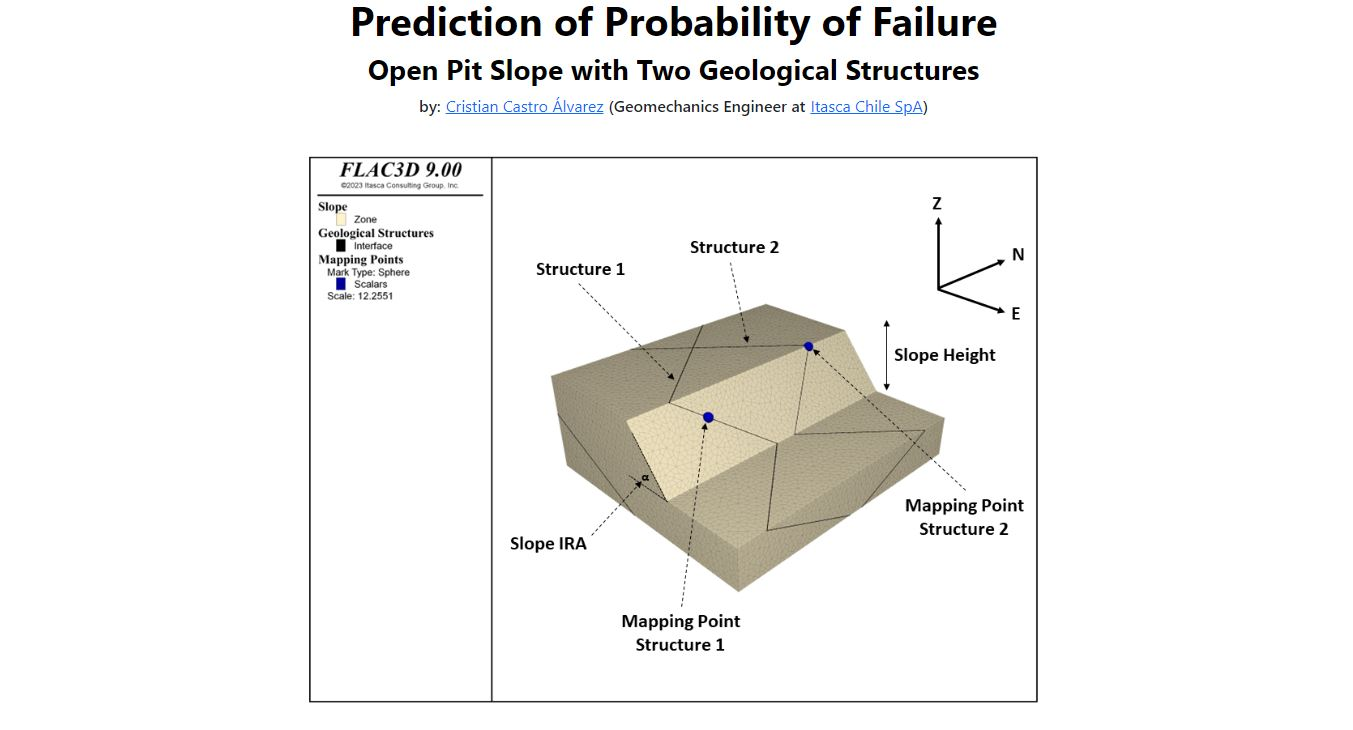
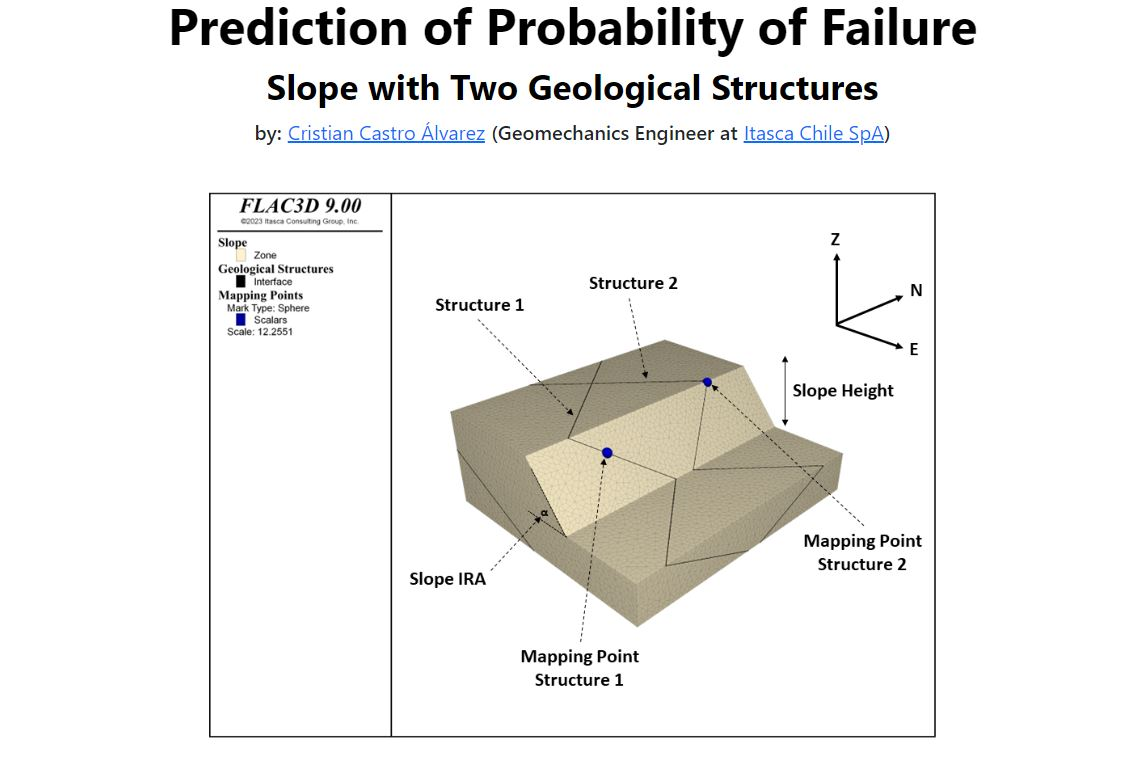
Update

diff --git a/src/components/input_variables.py b/src/components/input_variables.py
@@ -15,7 +15,7 @@ def render(app: Dash) -> html.Div:
                               value=100,
                               required=True,
                               debounce=True,
-                              style={'display': 'inline-block', 'margin-right': 10, 'width':'5%'}),
+                              style={'display': 'inline-block', 'margin-right': 10, 'width': 80}),
                     html.H6('Slope IRA (°) [37°, 89°]:', style={'display':'inline-block', 'margin-right': 5}),
                     dcc.Input(id='slope_ira',
                               type='number',
@@ -25,7 +25,7 @@ def render(app: Dash) -> html.Div:
                               value=38,
                               required=True,
                               debounce=True,
-                              style={'display': 'inline-block', 'margin-right': 10, 'width':'5%'}),
+                              style={'display': 'inline-block', 'margin-right': 10, 'width': 80}),
                     html.H6('Dist. Between Mapping Points (m):', style={'display': 'inline-block', 'margin-right': 5}),
                     dcc.Input(id='distance',
                               type='number',
@@ -35,7 +35,7 @@ def render(app: Dash) -> html.Div:
                               value=50,
                               required=True,
                               debounce=True,
-                              style={'display': 'inline-block', 'margin-right': 10, 'width': '5%'})
+                              style={'display': 'inline-block', 'margin-right': 10, 'width': 80})
                 ],
                 style={'margin-bottom': 10}
             ),
@@ -50,7 +50,7 @@ def render(app: Dash) -> html.Div:
                               value=37,
                               required=True,
                               debounce=True,
-                              style={'display': 'inline-block', 'margin-right': 10, 'width': '5%'}),
+                              style={'display': 'inline-block', 'margin-right': 10, 'width': 80}),
                     html.H6('Dip-Dir Structure 1 (°) [300°, 100°]:', style={'display': 'inline-block', 'margin-right': 5}),
                     dcc.Input(id='interface_1_dd',
                               type='number',
@@ -60,7 +60,7 @@ def render(app: Dash) -> html.Div:
                               value=60,
                               required=True,
                               debounce=True,
-                              style={'display': 'inline-block', 'margin-right': 10, 'width': '5%'}),
+                              style={'display': 'inline-block', 'margin-right': 10, 'width': 80}),
                     html.H6('Cohesion Structure 1 (kPa) [0, 60]:', style={'display':'inline-block', 'margin-right': 5}),
                     dcc.Input(id='interface_1_coh',
                               type='number',
@@ -70,7 +70,7 @@ def render(app: Dash) -> html.Div:
                               value=10,
                               required=True,
                               debounce=True,
-                              style={'display': 'inline-block', 'margin-right': 10, 'width':'5%'}),
+                              style={'display': 'inline-block', 'margin-right': 10, 'width': 80}),
                     html.H6('Fric. Angle Structure 1 (°) [0°, 45°]:', style={'display': 'inline-block', 'margin-right': 5}),
                     dcc.Input(id='interface_1_fri',
                               type='number',
@@ -80,7 +80,7 @@ def render(app: Dash) -> html.Div:
                               value=38,
                               required=True,
                               debounce=True,
-                              style={'display': 'inline-block', 'margin-right': 10, 'width':'5%'})],
+                              style={'display': 'inline-block', 'margin-right': 10, 'width': 80})],
                 style={'margin-bottom': 10}),
             html.Div(
                 children=[
@@ -93,7 +93,7 @@ def render(app: Dash) -> html.Div:
                               value=38,
                               required=True,
                               debounce=True,
-                              style={'display': 'inline-block', 'margin-right': 10, 'width': '5%'}),
+                              style={'display': 'inline-block', 'margin-right': 10, 'width': 80}),
                     html.H6('Dip-Dir Structure 2 (°) [40°, 230°]:', style={'display': 'inline-block', 'margin-right': 5}),
                     dcc.Input(id='interface_2_dd',
                               type='number',
@@ -103,7 +103,7 @@ def render(app: Dash) -> html.Div:
                               value=135,
                               required=True,
                               debounce=True,
-                              style={'display': 'inline-block', 'margin-right': 10, 'width':'5%'}),
+                              style={'display': 'inline-block', 'margin-right': 10, 'width': 80}),
                     html.H6('Cohesion Structure 2 (kPa) [0, 60]:', style={'display': 'inline-block', 'margin-right': 5}),
                     dcc.Input(id='interface_2_coh',
                               type='number',
@@ -113,7 +113,7 @@ def render(app: Dash) -> html.Div:
                               value=10,
                               required=True,
                               debounce=True,
-                              style={'display': 'inline-block', 'margin-right': 10, 'width':'5%'}),
+                              style={'display': 'inline-block', 'margin-right': 10, 'width': 80}),
                     html.H6('Fric. Angle Structure 2 (°) [0°, 45°]:', style={'display': 'inline-block', 'margin-right': 5}),
                     dcc.Input(id='interface_2_fri',
                               type='number',
@@ -123,7 +123,7 @@ def render(app: Dash) -> html.Div:
                               value=38,
                               required=True,
                               debounce=True,
-                              style={'display': 'inline-block', 'margin-right': 10, 'width':'5%'})],
+                              style={'display': 'inline-block', 'margin-right': 10, 'width': 80})],
                 style={'margin-bottom': 10}),
             html.Div(
                 children=[
@@ -136,7 +136,7 @@ def render(app: Dash) -> html.Div:
                               max=3900,
                               value=2700,
                               debounce=True,
-                              style={'display': 'inline-block', 'margin-right': 10, 'width':'5%'}),
+                              style={'display': 'inline-block', 'margin-right': 10, 'width': 80}),
                     html.H6('Intact Young Modulus (GPa) [20, 100]:', style={'display': 'inline-block', 'margin-right': 5}),
                     dcc.Input(id='young_modulus',
                               type='number',
@@ -146,7 +146,7 @@ def render(app: Dash) -> html.Div:
                               max=100,
                               value=40,
                               debounce=True,
-                              style={'display': 'inline-block', 'margin-right': 10, 'width':'5%'}),
+                              style={'display': 'inline-block', 'margin-right': 10, 'width': 80}),
                     html.H6('Poisson Ratio [0.18, 0.40]:', style={'display': 'inline-block', 'margin-right': 5}),
                     dcc.Input(id='poisson_ratio',
                               type='number',
@@ -156,7 +156,7 @@ def render(app: Dash) -> html.Div:
                               max=0.4,
                               value=0.25,
                               debounce=True,
-                              style={'display': 'inline-block', 'margin-right': 10, 'width':'5%'}),
+                              style={'display': 'inline-block', 'margin-right': 10, 'width': 80}),
                     html.H6('Intact UCS (MPa) [30, 225]:', style={'display': 'inline-block', 'margin-right': 5}),
                     dcc.Input(id='UCS',
                               type='number',
@@ -166,7 +166,7 @@ def render(app: Dash) -> html.Div:
                               max=227,
                               value=70,
                               debounce=True,
-                              style={'display': 'inline-block', 'margin-right': 10, 'width':'5%'})],
+                              style={'display': 'inline-block', 'margin-right': 10, 'width': 80})],
                 style={'margin-bottom': 10}),
             html.Div(
                 children=[
@@ -179,7 +179,7 @@ def render(app: Dash) -> html.Div:
                               value=50,
                               placeholder='Meters below surface',
                               debounce=True,
-                              style={'display': 'inline-block', 'margin-right': 10, 'width':'5%'}),
+                              style={'display': 'inline-block', 'margin-right': 10, 'width': 80}),
                     html.H6('GSI [35, 90]:', style={'display': 'inline-block', 'margin-right': 5}),
                     dcc.Input(id='GSI',
                               type='number',
@@ -189,7 +189,7 @@ def render(app: Dash) -> html.Div:
                               max=90,
                               value=60,
                               debounce=True,
-                              style={'display': 'inline-block', 'margin-right': 10, 'width':'5%'}),
+                              style={'display': 'inline-block', 'margin-right': 10, 'width': 80}),
                     html.H6('Hoek & Brown mi [2, 35]:', style={'display': 'inline-block', 'margin-right': 5}),
                     dcc.Input(id='mi',
                               type='number',
@@ -199,7 +199,7 @@ def render(app: Dash) -> html.Div:
                               max=35,
                               value=15,
                               debounce=True,
-                              style={'display': 'inline-block', 'margin-right': 10, 'width':'5%'})],
+                              style={'display': 'inline-block', 'margin-right': 10, 'width': 80})],
                 style={'margin-bottom': 10}),
             html.Div(children=[
                 html.Button(id='calculate-button',

diff --git a/src/app.py b/src/app.py
@@ -9,12 +9,12 @@ from dash_bootstrap_components.themes import BOOTSTRAP
 
 from src.components.layout import create_layout
 
-app_description = """Surrogate Model for Prediction of Probability of Failure in Open Pits with Two Geological Structures.
+app_description = """Surrogate Model for Prediction of Probability of Failure in Slopes with Two Geological Structures.
 by: Cristian Castro Álvarez (Geomechanics Engineer at Itasca Chile SpA)"""
 app_title = "Prediction of Probability of Failure"
-app_image = "https://i.ibb.co/pL26M96/Captura.jpg"
+app_image = "https://i.ibb.co/qjP9GR6/Captura.jpg"
 metas = [
-    {"name": "viewport", "content": "width=device-width, initial-scale=1"},
+    {"name": "viewport", "content": "width=device-width, initial-scale=1.2, maximum-scale=1.5, minimum-scale=0.5"},
     {"property": "twitter:card", "content": "summary_large_image"},
     {"property": "twitter:url", "content": "https://pof-prediction.onrender.com/"},
     {"property": "twitter:title", "content": app_title},

diff --git a/src/components/layout.py b/src/components/layout.py
@@ -11,7 +11,7 @@ def create_layout(app: Dash) -> html.Div:
                     style={'textAlign': 'center',
                            'color': 'black',
                            'font-weight': 'bold'}),
-            html.H3(children="Open Pit Slope with Two Geological Structures",
+            html.H3(children="Slope with Two Geological Structures",
                     style={'textAlign': 'center',
                            'color': 'black',
                            'font-weight': 'bold'}),
